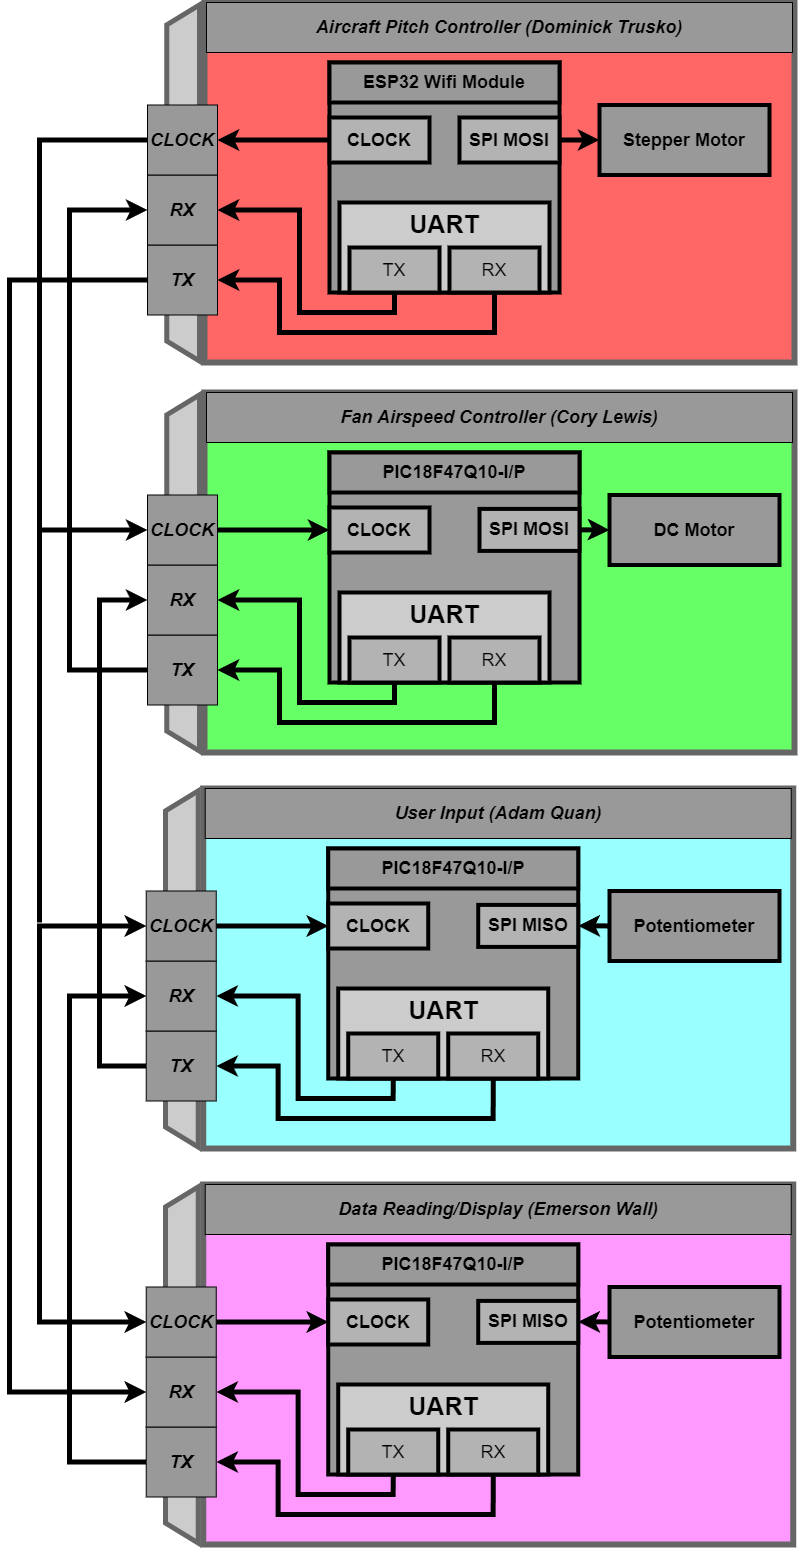
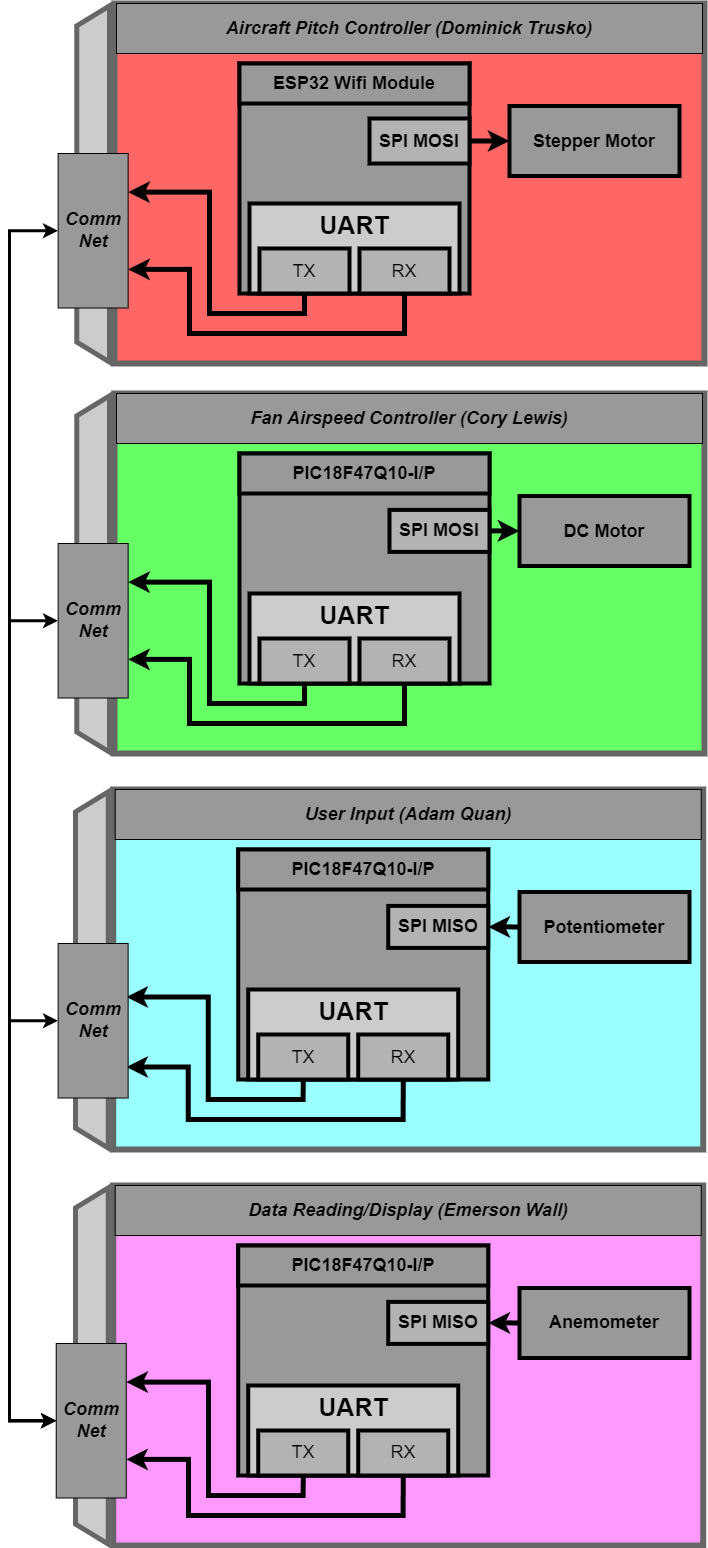
Adjusted to grading feedback

diff --git a/docs/TeamBlockDiagram/TeamBlockDiagram.html b/docs/TeamBlockDiagram/TeamBlockDiagram.html
@@ -6,6 +6,30 @@
     <meta name="viewport" content="width=device-width, initial-scale=1.0, maximum-scale=1.0, user-scalable=no">
     <title>Block Diagram</title>
     <link rel="stylesheet" href="../stylesheets/styles.css">
+
+    <style>
+        .message-header {
+            padding: 1vw;
+        }
+
+        .message-content {
+            background-color: rgb(234, 234, 234);
+        }
+
+        .pin-square {
+            width: 1vw;
+            height: 1vw;
+            background-color: rgb(165, 165, 165);
+            border-width: 1vw;
+            border-color: black;
+            border-style:solid;
+        }
+
+        .pin-description {
+            height:1vw;
+            background-color: white;
+        }
+    </style>
 </head>
 
 <body>
@@ -64,7 +88,67 @@
         <div id="commInterface" class="hiddenContent">
 
             <div
-                style="background-color: rgb(233, 233, 233); width: 95%; display: flex; justify-content: center; margin: 10px auto; padding: 20px; border-radius: 20px;">
+                style="background-color: rgb(233, 233, 233); width: 95%; display: flex; flex-direction:column; justify-content: center; margin: 1vw auto; padding: 1vw; border-radius: 20px;">
+
+                <h3 class="contentParagraph"
+                    style="background-color: white; padding: 1vw; border-radius: 5px; font-size: 20px;">
+                    Our open communication network circumvents the requirement for separate transmit/receive channels in favor
+                    of a singular, open communication system. Commands are set at fixed intervals, with their timing determined by
+                    the system ready confirmation from the Aircraft pitch controller. Each device has a 0.25 second window per second
+                    to send messages to other devices. All boards are required to send a message, even if the message content is empty,
+                    this is used to determine if any individual system has failed and requires servicing.
+
+                    <div style="padding-bottom:2vw;"></div>
+
+                    Our power will not be transmitted through the header due to the unique requirements of the project, we will be 
+                    using terminal blocks to ensure proper power distribution, without the potential risk of bridging and
+                    damaging our communication network. A shared ground will be utilized, but as all boards will be grounded to the frame and
+                    power supply this more of a backup.
+
+                    <div style="padding-bottom:2vw;"></div>
+
+                    Only a singular pin is required for this system. The class has a requirement for an 8-pin setup, which we still support
+                    headers for. The communication network will still technically be daisy-chained, but cross-pin contacts on the board will
+                    automatically hand messages off without the need of the microcontroller to middle-man communication.
+
+                    <div style="padding-bottom:2vw;"></div>
+
+                    <table style="padding-left:2vw;">
+                        <tr>
+                            <td class="pin-square"> 1 </td>
+                            <td class="pin-description"> N/C </td>
+                        </tr>
+                        <tr>
+                            <td class="pin-square"> 2 </td>
+                            <td class="pin-description"> Communication Network </td>
+                        </tr>
+                        <tr>
+                            <td class="pin-square"> 3 </td>
+                            <td class="pin-description"> N/C </td>
+                        </tr>
+                        <tr>
+                            <td class="pin-square"> 4 </td>
+                            <td class="pin-description"> N/C </td>
+                        </tr>
+                        <tr>
+                            <td class="pin-square"> 5 </td>
+                            <td class="pin-description"> N/C </td>
+                        </tr>
+                        <tr>
+                            <td class="pin-square"> 6 </td>
+                            <td class="pin-description"> N/C </td>
+                        </tr>
+                        <tr>
+                            <td class="pin-square"> 7 </td>
+                            <td class="pin-description"> N/C </td>
+                        </tr>
+                        <tr>
+                            <td class="pin-square"> 8 </td>
+                            <td class="pin-description"> Ground </td>
+                        </tr>
+                    </table>
+
+                </h3>
 
                 <img src="../Media/BlockDiagram/CommFlow.png" alt="BlockDiagramImage" class="centerImage">
 
@@ -81,7 +165,8 @@
 
             <div
                 style="background-color: rgb(233, 233, 233); width: 95%; display: flex; justify-content: center; margin: 10px auto; padding: 20px; border-radius: 20px; flex-direction: column;">
-                <h3 class="contentParagraph" style="background-color: white; padding: 10px; border-radius: 5px; font-size: 20px;">
+                <h3 class="contentParagraph"
+                    style="background-color: white; padding: 10px; border-radius: 5px; font-size: 20px;">
                     Due to the minimal needs of the intercommunication aspect of the project. Minimizing message length
                     allows us to send smaller
                     messages over longer periods of time. Due to our project being rather large, it will allow us to a
@@ -92,7 +177,6 @@
                     and end of a message, as well
                     as a recipient tag (Identifier for controller, if not needed by the recipient it will be forwarded
                     to the next device).
-
                 </h3>
 
 
@@ -111,19 +195,23 @@
                     <tbody style="color:white; ">
                         <tr>
                             <td Style="background-color: rgb(64, 64, 243) !important;">1</td>
-                            <td Style="background-color: rgb(64, 64, 243) !important;">Header (Indicates start of transmission) [Fixed Value 0x11]</td>
+                            <td Style="background-color: rgb(64, 64, 243) !important;">Header (Indicates start of
+                                transmission) [Fixed Value 0x11]</td>
                         </tr>
                         <tr>
                             <td class="td-alt" style="background-color: hwb(120 0% 50%) !important;">2</td>
-                            <td class="td-alt" style="background-color: green !important;">Recipient ID (Intended recipient of information)</td>
+                            <td class="td-alt" style="background-color: green !important;">Recipient ID (Intended
+                                recipient of information)</td>
                         </tr>
                         <tr>
                             <td Style="background-color: rgb(177, 75, 44) !important;">3</td>
-                            <td Style="background-color: rgb(177, 75, 44) !important;">Origin ID (Who sent the message)</td>
+                            <td Style="background-color: rgb(177, 75, 44) !important;">Origin ID (Who sent the message)
+                            </td>
                         </tr>
                         <tr>
-                            <td class="td-alt" Style="background-color: rgb(143, 33, 119) !important;" >4</td>
-                            <td class="td-alt" Style="background-color: rgb(143, 33, 119) !important;">Message start flag (Indicates data follows)</td>
+                            <td class="td-alt" Style="background-color: rgb(143, 33, 119) !important;">4</td>
+                            <td class="td-alt" Style="background-color: rgb(143, 33, 119) !important;">Message start
+                                flag (Indicates data follows)</td>
                         </tr>
                         <tr>
                             <td style="background-color: rgb(92, 92, 92);">5</td>
@@ -190,17 +278,195 @@
                             <td style="background-color: rgb(92, 92, 92);">Data</td>
                         </tr>
                         <tr>
-                            <td class="td-alt" Style="background-color: rgb(143, 33, 119) !important;" >21</td>
-                            <td class="td-alt" Style="background-color: rgb(143, 33, 119) !important;">Message end flag (Indicates data termination)</td>
+                            <td class="td-alt" Style="background-color: rgb(143, 33, 119) !important;">21</td>
+                            <td class="td-alt" Style="background-color: rgb(143, 33, 119) !important;">Message end flag
+                                (Indicates data termination)</td>
                         </tr>
                         <tr>
                             <td Style="background-color: rgb(64, 64, 243) !important;">22</td>
-                            <td Style="background-color: rgb(64, 64, 243) !important;">Footer (Indicates end of transmission) [Fixed Value 0x13]</td>
+                            <td Style="background-color: rgb(64, 64, 243) !important;">Footer (Indicates end of
+                                transmission) [Fixed Value 0x13]</td>
                         </tr>
                     </tbody>
                 </table>
-            </div>
 
+                <h3 class="contentParagraph"
+                    style="background-color: white; padding: 1.5vw; border-radius: 5px; font-size: 20px; display:flex; flex-direction: column;">
+                    <p style="font-size:150%; margin-top:0px;">
+                        Message Types
+                    </p>
+                    We have various message types that need to be transmitted through this standard. The nature of the
+                    header/footer system allows for dynamic message sizes. The types of messages
+                    and lengths are listed below.
+
+                    <div style="padding-bottom: 1vh;"></div>
+
+                    All messages are also recieved by the wifi system for live-display to the operator via the
+                    web-interface. All messages can also be spoofed by the web-interface to overwrite command inputs by
+                    the user
+
+                    <div style="padding-bottom: 2vw;"></div>
+
+                    <div style="padding: auto; align-content:center;">
+                        <table>
+                            <thead>
+                                <div>
+                                    <th class="message-header"> Message Name </th>
+                                    <th class="message-header"> Data type </th>
+                                    <th class="message-header"> Data </th>
+                                    <th class="message-header"> Size </th>
+                                    <th class="message-header"> Sender </th>
+                                    <th class="message-header"> Recipient </th>
+                                    <th class="message-header"> Contents </th>
+                                </div>
+
+                            </thead>
+
+                            <tbody>
+                                <tr>
+                                    <td class="message-content"> Target Rotation </td>
+                                    <td class="message-content"> uint_8 </td>
+                                    <td class="message-content"> [0-90] </td>
+                                    <td class="message-content"> 8 Bits </td>
+                                    <td class="message-content"> HMI </td>
+                                    <td class="message-content"> Pitch Controller </td>
+                                    <td class="message-content"> Reports what angle the aircraft should seek </td>
+                                </tr>
+                                <tr>
+                                    <td class="message-content"> Fan Speed Target </td>
+                                    <td class="message-content"> uint_8 </td>
+                                    <td class="message-content"> [0-255] </td>
+                                    <td class="message-content"> 8 Bits </td>
+                                    <td class="message-content"> HMI </td>
+                                    <td class="message-content"> Fan Speed Controller </td>
+                                    <td class="message-content"> Reports target airspeed to the fan controller </td>
+                                </tr>
+                                <tr>
+                                    <td class="message-content"> True Airspeed </td>
+                                    <td class="message-content"> uint_8 </td>
+                                    <td class="message-content"> [0-255] </td>
+                                    <td class="message-content"> 8 Bits </td>
+                                    <td class="message-content"> Data Display </td>
+                                    <td class="message-content"> Fan Speed Controller </td>
+                                    <td class="message-content"> Reports true airspeed to fan controller </td>
+                                </tr>
+                                <tr>
+                                    <td class="message-content"> Ready </td>
+                                    <td class="message-content"> uint_8 </td>
+                                    <td class="message-content"> 0x66 </td>
+                                    <td class="message-content"> 8 Bits </td>
+                                    <td class="message-content"> All Devices </td>
+                                    <td class="message-content"> Wifi System </td>
+                                    <td class="message-content"> Indicates that the individual board has completed it's
+                                        startup procedure
+                                    </td>
+                                </tr>
+                                <tr>
+                                    <td class="message-content"> Reset System </td>
+                                    <td class="message-content"> uint_8 </td>
+                                    <td class="message-content"> 0xAE </td>
+                                    <td class="message-content"> 8 Bits </td>
+                                    <td class="message-content"> Wifi System </td>
+                                    <td class="message-content"> All Devices </td>
+                                    <td class="message-content"> Commands all systems to clear their data and return to
+                                        starting conditions
+                                    </td>
+                                </tr>
+                                <tr>
+                                    <td class="message-content"> Emergency Stop </td>
+                                    <td class="message-content"> uint_8 </td>
+                                    <td class="message-content"> 0x99 </td>
+                                    <td class="message-content"> 8 Bits </td>
+                                    <td class="message-content"> Wifi System </td>
+                                    <td class="message-content"> All Devices </td>
+                                    <td class="message-content"> Orders all hardware to immediately cease function </td>
+                                </tr>
+                            </tbody>
+                        </table>
+                    </div>
+                </h3>
+                <h3 class="contentParagraph"
+                    style="background-color: white; padding: 1.5vw; border-radius: 5px; font-size: 20px; display:flex; flex-direction: column;">
+                    <p style="font-size:150%; margin-top:0px;">
+                        Web Interface Message Types
+                    </p>
+                    Our web interface will allow an operator at a computer to control all system functions, including
+                    stopping the system in case of
+                    emergency, and overwriting user controls for the purpose of demoing the system to individuals
+                    incapable of operating the controls.
+
+                    <div style="padding-bottom: 2vw;"></div>
+
+                    <div style="padding: auto; align-content:center;">
+                        <table>
+                            <thead>
+                                <div>
+                                    <th class="message-header"> Message Name </th>
+                                    <th class="message-header"> Data type </th>
+                                    <th class="message-header"> Data </th>
+                                    <th class="message-header"> Size </th>
+                                    <th class="message-header"> Sender </th>
+                                    <th class="message-header"> Contents </th>
+                                </div>
+                            </thead>
+                            <tbody>
+                                <tr>
+                                    <td class="message-content"> Target Rotation </td>
+                                    <td class="message-content"> uint_8 </td>
+                                    <td class="message-content"> [0-90] </td>
+                                    <td class="message-content"> 8 Bits </td>
+                                    <td class="message-content"> Web </td>
+                                    <td class="message-content"> Reports what aircraft target angle </td>
+                                </tr>
+                                <tr>
+                                    <td class="message-content"> Fan Speed Target </td>
+                                    <td class="message-content"> uint_8 </td>
+                                    <td class="message-content"> [0-255] </td>
+                                    <td class="message-content"> 8 Bits </td>
+                                    <td class="message-content"> Web </td>
+                                    <td class="message-content"> Reports target airspeed </td>
+                                </tr>
+                                <tr>
+                                    <td class="message-content"> Reset System </td>
+                                    <td class="message-content"> uint_8 </td>
+                                    <td class="message-content"> 0xAE </td>
+                                    <td class="message-content"> 8 Bits </td>
+                                    <td class="message-content"> Web </td>
+                                    <td class="message-content"> Commands all systems to clear their data and return to
+                                        starting conditions
+                                    </td>
+                                </tr>
+                                <tr>
+                                    <td class="message-content"> Emergency Stop </td>
+                                    <td class="message-content"> uint_8 </td>
+                                    <td class="message-content"> 0x99 </td>
+                                    <td class="message-content"> 8 Bits </td>
+                                    <td class="message-content"> Web </td>
+                                    <td class="message-content"> Orders all hardware to immediately cease function </td>
+                                </tr>
+                                <tr>
+                                    <td class="message-content"> True Airspeed </td>
+                                    <td class="message-content"> uint_8 </td>
+                                    <td class="message-content"> [0-255] </td>
+                                    <td class="message-content"> 8 Bits </td>
+                                    <td class="message-content"> System </td>
+                                    <td class="message-content"> Reports true airspeed operator </td>
+                                </tr>
+                                <tr>
+                                    <td class="message-content"> Ready </td>
+                                    <td class="message-content"> uint_8 </td>
+                                    <td class="message-content"> 0x66 </td>
+                                    <td class="message-content"> 8 Bits </td>
+                                    <td class="message-content"> System </td>
+                                    <td class="message-content"> Reports that all boards have completed startup tasks
+                                    </td>
+                                </tr>
+
+                            </tbody>
+                        </table>
+                    </div>
+                </h3>
+            </div>
         </div>
     </div>
 
